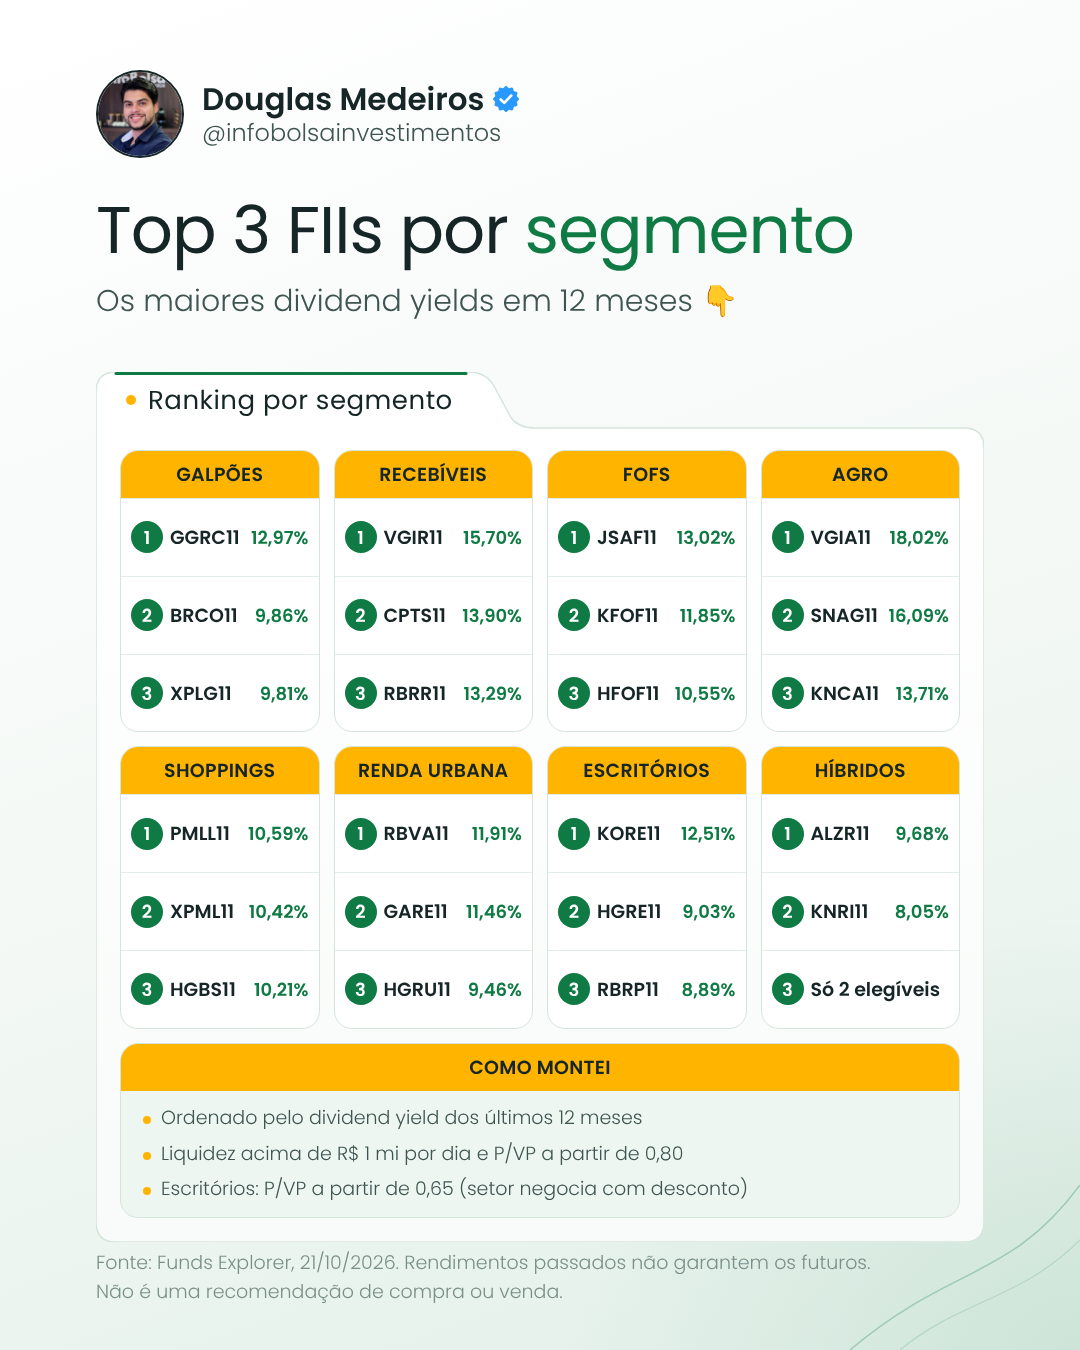
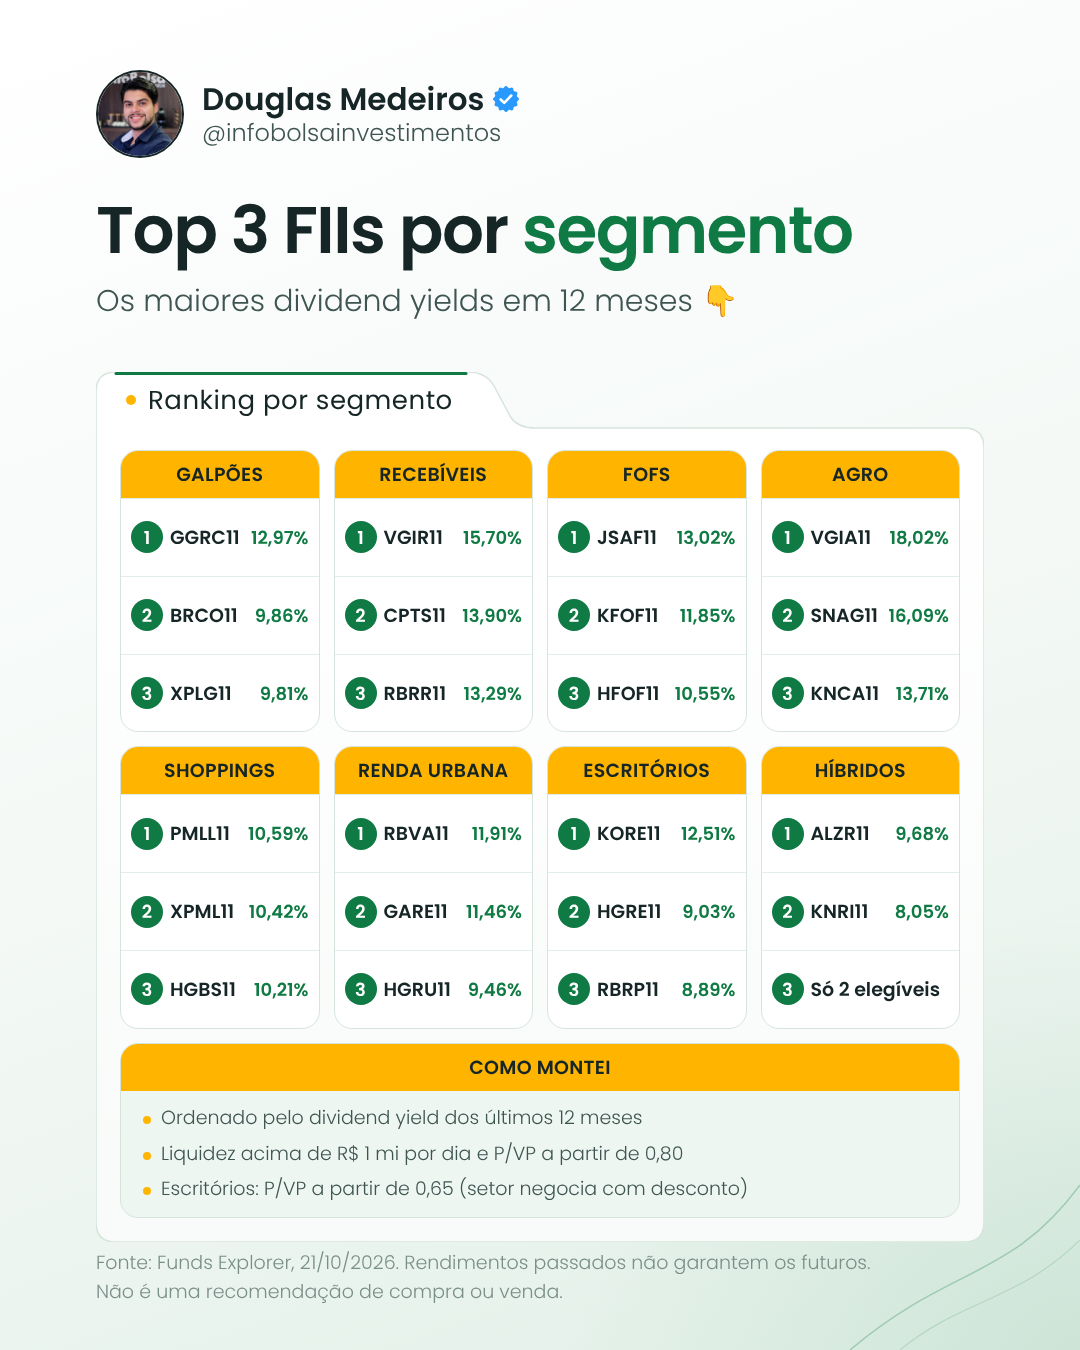
Titulos em negrito (peso 600) e arte Top 3 FIIs atualizada
Claude-Session: https://claude.ai/code/session_01V4Ut9U2W4uPbxLAyJQKmJH

Changed region(s): [[0.0917, 0.1556, 0.7944, 0.2178]]

diff --git a/kit/t.html b/kit/t.html
@@ -16,7 +16,7 @@ body{position:relative;font-family:"P",sans-serif;font-weight:300;color:var(--fg
 .cab .nm svg{width:28px;height:28px}
 .cab .ar{font-size:24px;line-height:31px;color:var(--sub)}
 .tit{position:absolute;top:196px;left:96px;right:96px}
-.tit h1{font-weight:400;font-size:var(--tsize,92px);line-height:1.04;letter-spacing:-1px}
+.tit h1{font-weight:600;font-size:var(--tsize,92px);line-height:1.04;letter-spacing:-1.5px}
 .tit h1 span{color:var(--acc)}
 .tit p{font-size:30px;line-height:1.35;margin-top:16px;color:var(--sub)}
 .pasta{position:absolute;left:96px;width:888px}

diff --git a/kit/gen_inst.py b/kit/gen_inst.py
@@ -49,7 +49,7 @@ body{position:relative;font-family:"P",sans-serif;font-weight:300;color:var(--fg
 .cab .nm svg{width:28px;height:28px}
 .cab .ar{font-size:24px;line-height:31px;color:var(--sub)}
 .tit{position:absolute;top:196px;left:96px;right:96px}
-.tit h1{font-weight:400;font-size:var(--tsize,92px);line-height:1.04;letter-spacing:-1px}
+.tit h1{font-weight:600;font-size:var(--tsize,92px);line-height:1.04;letter-spacing:-1.5px}
 .tit h1 span{color:var(--acc)}
 .tit p{font-size:30px;line-height:1.35;margin-top:16px;color:var(--sub)}
 .pasta{position:absolute;left:96px;width:888px}

diff --git a/ROTINA-sugestoes.md b/ROTINA-sugestoes.md
@@ -1,3 +1,5 @@
+TÍTULOS EM NEGRITO (21/10/2026): Douglas pediu títulos mais chamativos, fonte mais grossa (h1 peso 600). Vale para os posts novos, sem refazer os antigos.
+
 # Post branco do @infobolsainvestimentos: uma arte por dia ao meio-dia (Planner)
 
 ATUALIZADO EM 20/10/2026 (pedido do Douglas): o @infobolsainvestimentos passa a ter UMA arte por dia, sempre ao MEIO-DIA (12h). Não existem mais os posts das 07h e das 15h. A arte é feita com ele, conversa a conversa, e ele mesmo agenda no Planner (não vai pelo Windsor). A tarefa agendada desta rotina está DESLIGADA, não religue. O Windsor está ligado só ao perfil novo @infobolsainvest (17841475583342876), que recebe a notícia das 12h e o fechamento das 18h20 (ROTINA-noticia.md e ROTINA.md).
